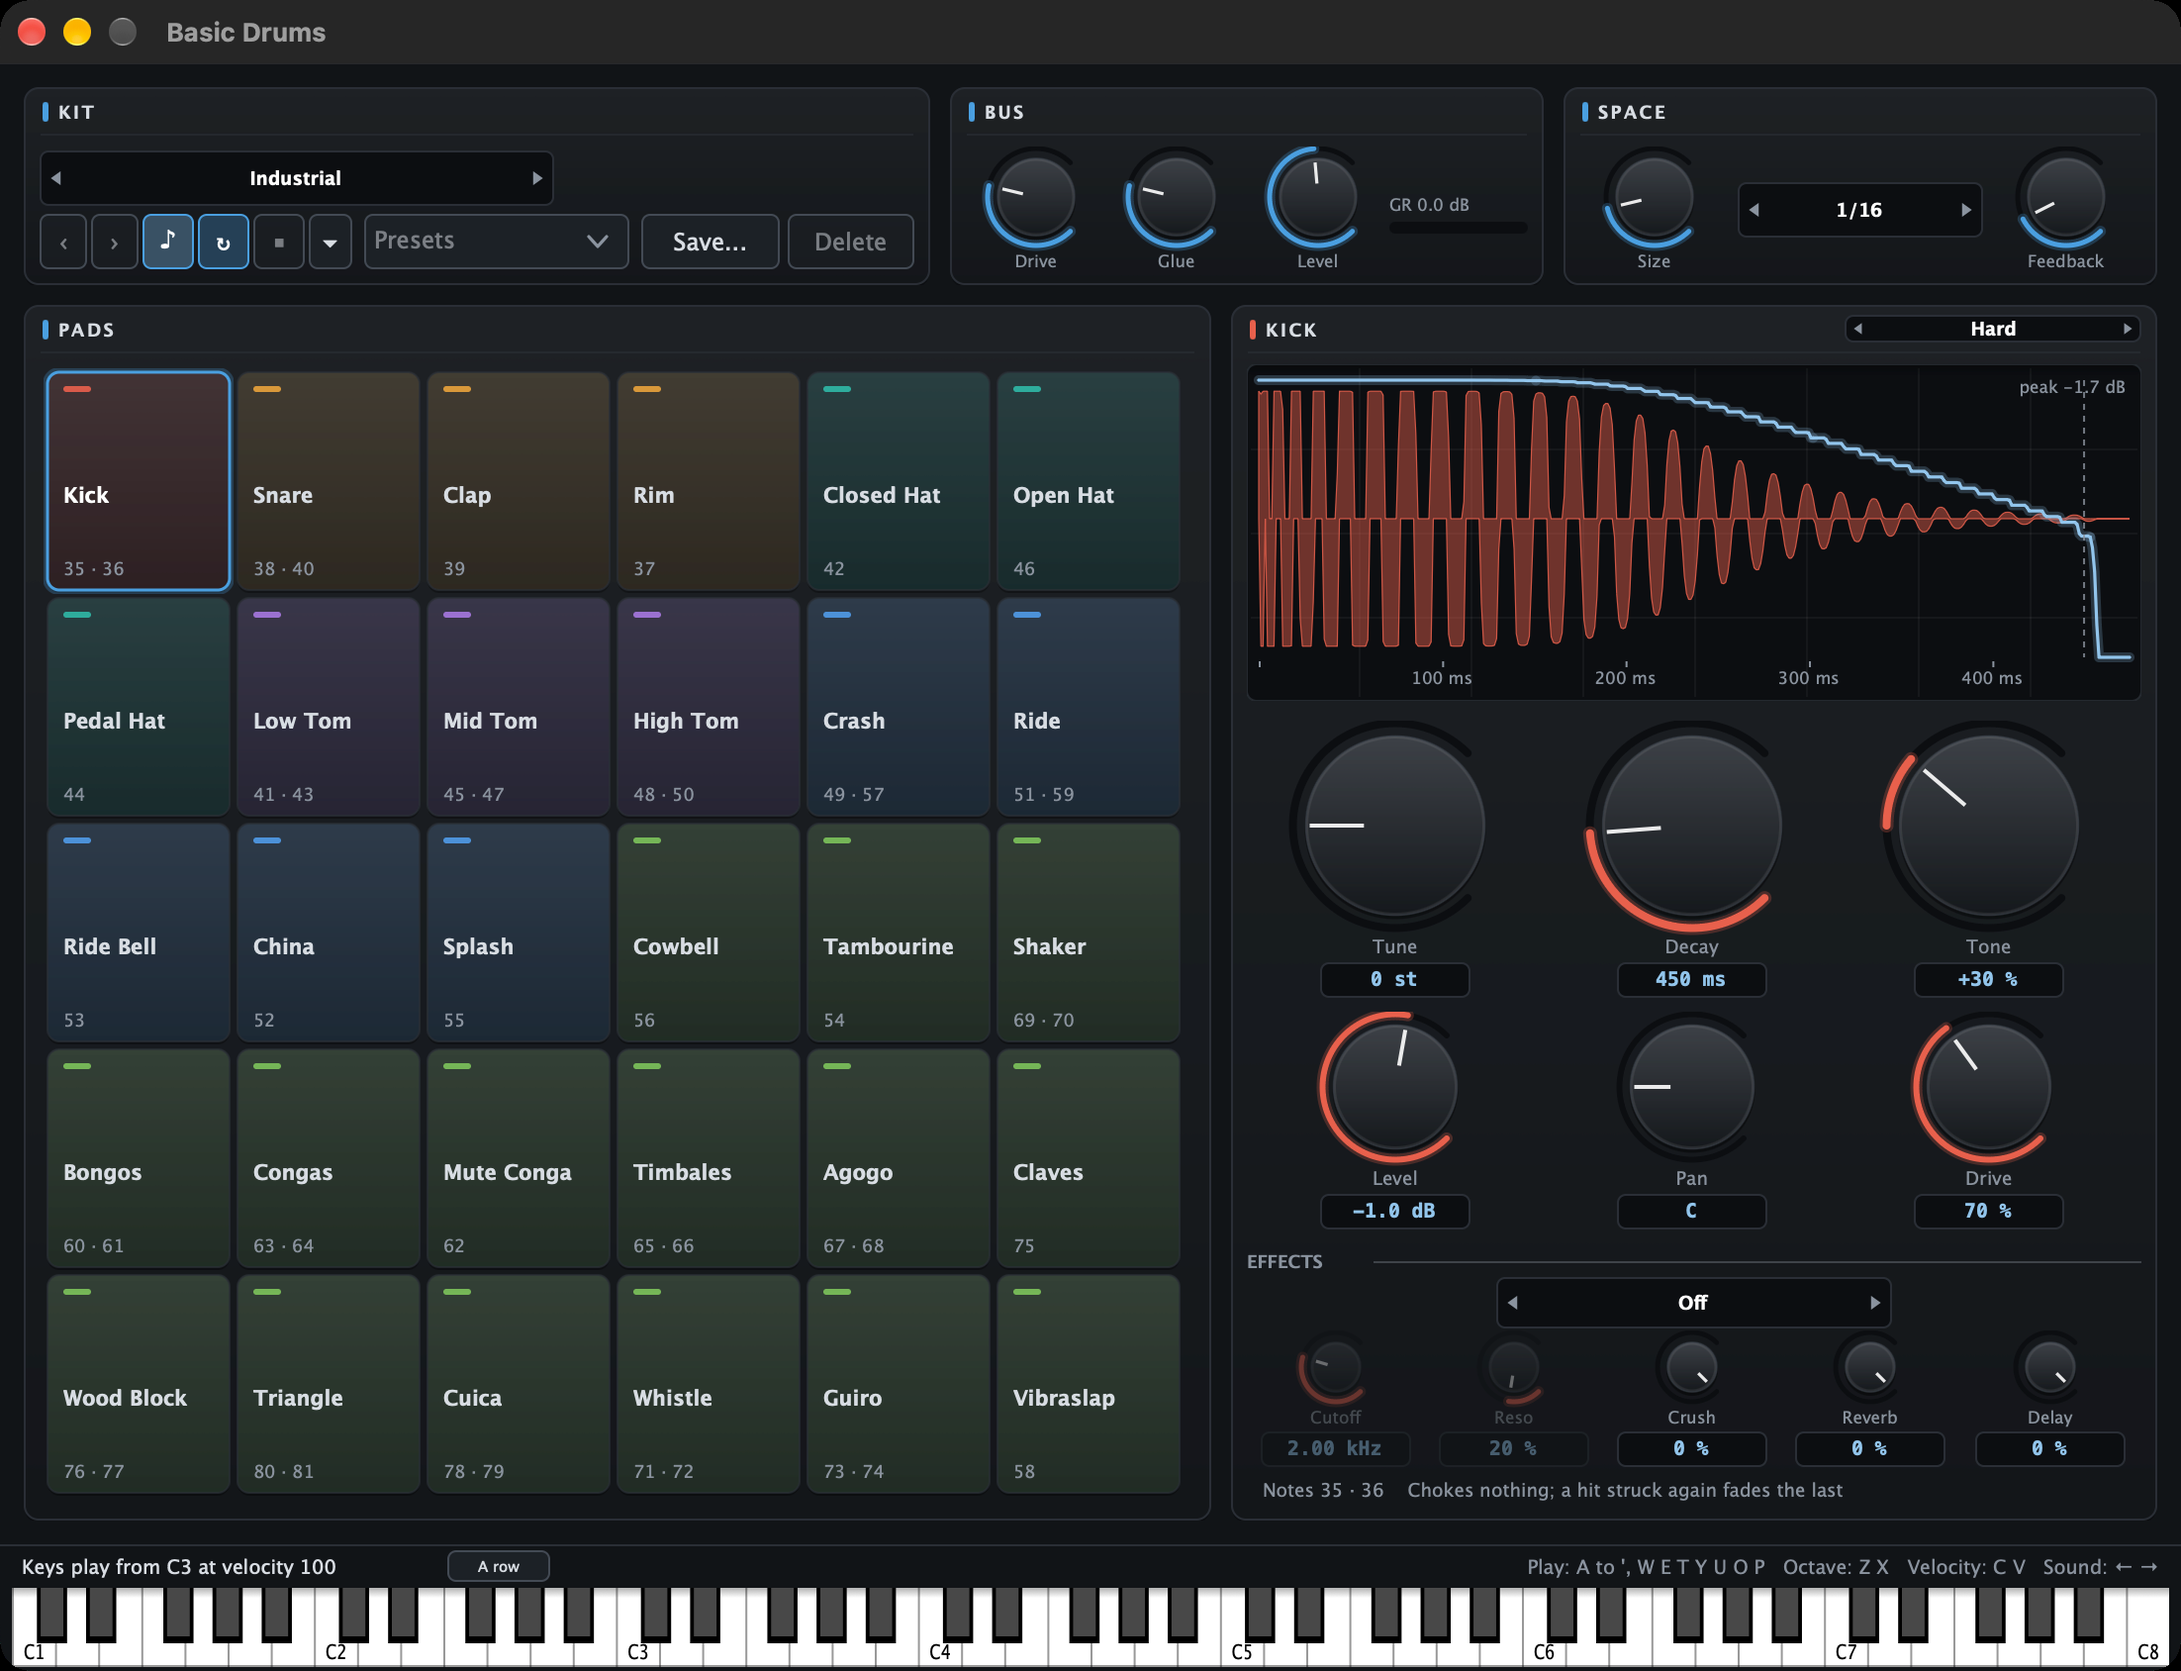
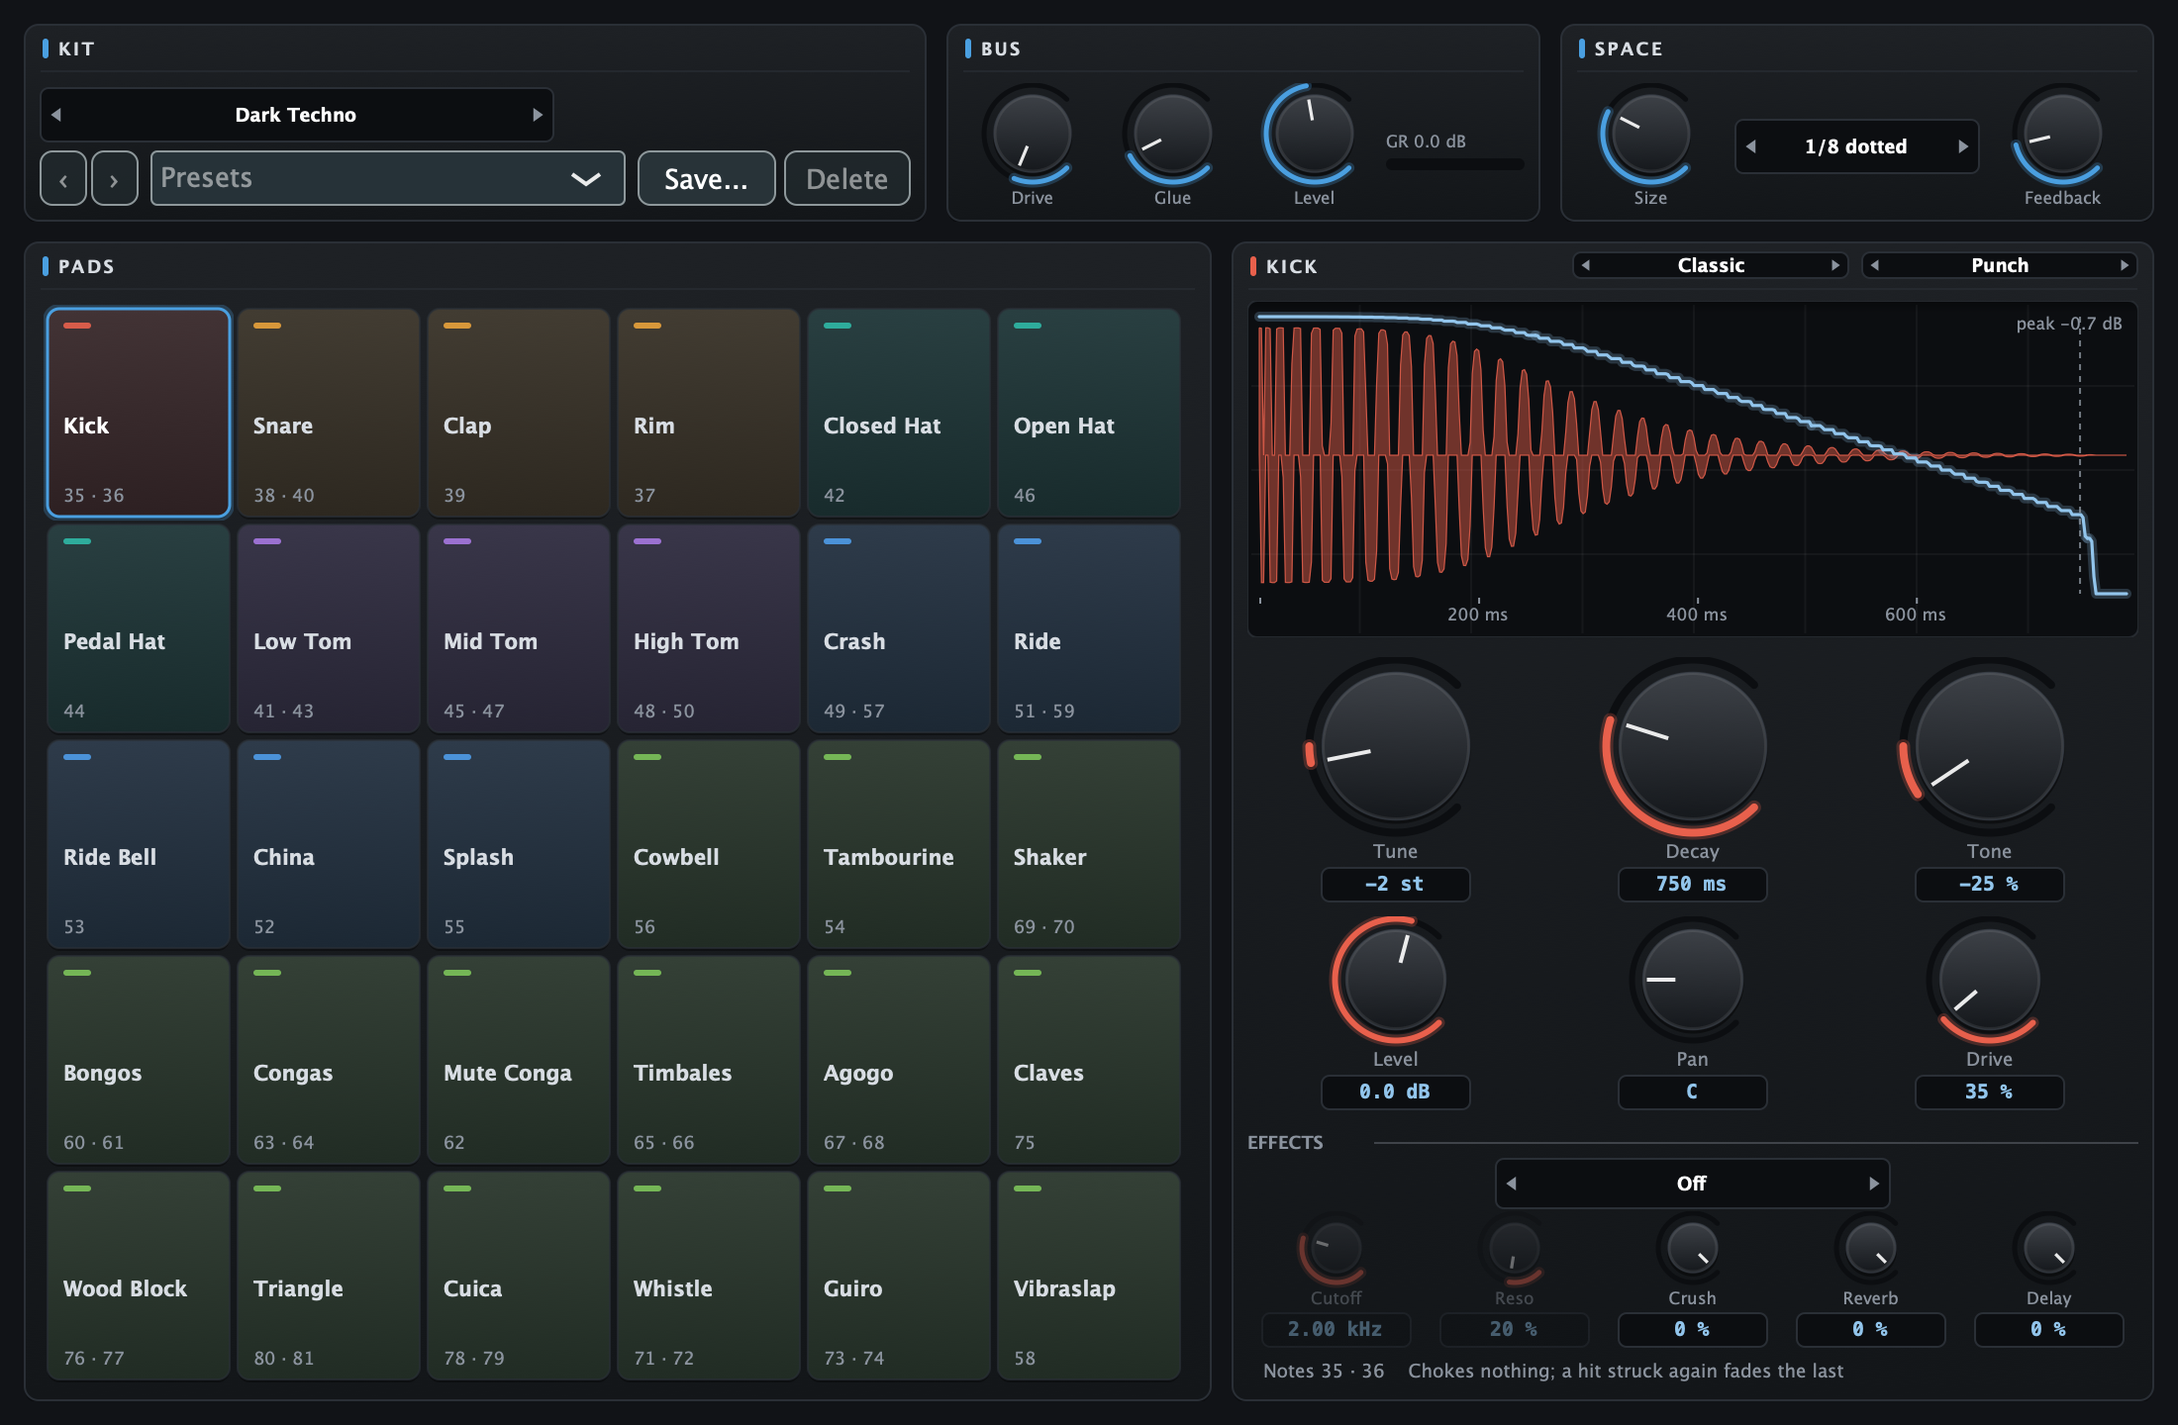
Changelog: release 0.21.0; the Basic Drums picture drawn by the tests

diff --git a/CHANGELOG.md b/CHANGELOG.md
@@ -4,6 +4,18 @@ Each milestone as it was built, newest first, with what the tests measured on th
 
 ## Unreleased
 
+## Released
+
+**Release 0.21.0: the first announced release since 0.19.2**
+- `Torqwave-0.21.0.dmg` on the repository's Releases page, with its SHA-256, and the Windows and Linux packages built by their workflows from the release's tag.
+- **What it is.** Neither 0.20.0 nor 0.20.1 was announced, so 0.21.0 stands for the whole line since 0.19.2: the instruments (0.20.0), Continue where you left off (0.20.1), and what is new in it.
+- **New since 0.20.1** (the entries below): Basic Drums' Modern type, five kits, fourteen grooves and eight audition beats; the Maximizer, Click and Pop Repair and Repair Clipping corrected; Ask Torq remembering the conversation, showing the model's context and answering what is new; and the project's site.
+- Checked on the development Mac (macOS 27): `Scripts/package.sh` built the app universal (arm64 and x86_64) at the release's code, at the tag so the app is marked a release build, signed it ad hoc and made the disk image (the step that failed in the two releases before now gives the image its size). The whole suite (2,618 checks) then passed once in each half of that build, the Intel one under Rosetta, with the signed app as the plug-in scan worker. Not run on an Intel Mac itself. The suites that run on their own were not run again after it: they repeat checks the whole suite makes. The tag is one commit after the code that was built and tested, and that commit changes documents and one picture only.
+- **Windows and Linux:** the workflows build the packages without running the tests, and neither was tried by hand.
+- The Mac app is signed ad hoc, not with a Developer ID, and is not notarized: macOS blocks it the first time, and Open Anyway under System Settings > Privacy & Security lets it through.
+- **Tried by hand before the release:** the new drum kits were heard as rendered clips beside the kits they stand next to; the Modern kick has less weight than the Classic one. Ask Torq's empty box, missing follow-ups and missing release notes were found by the user in the first 0.21.0 build and fixed before this one. The three effects, the Modern sounds in the window, and Ask Torq's arrows and context line were not tried by hand in this build before it was made.
+- The guide's picture of the Basic Drums window is now drawn by the tests (`--drums-window`), so it shows the Type selector; the picture before was a capture of the running window.
+
 **Ask Torq remembers the conversation, empties its box, shows how full the model's context is, and knows what release it is in** (fix log 110 and 111)
 - **What was wrong,** found by the user in the 0.21.0 build before its release. The question stayed in the box after it was sent. A follow-up had nothing to follow: each request went to the model by itself, and the log was emptied for it. And asked "what is new in 0.21.0?", the model said it had no release notes, which was true.
 - **Now the box empties on send** and the log keeps the conversation, one request after another. (The box is emptied by setting its text: `clear()` left its value behind, which could put the text back.)
@@ -71,8 +83,6 @@ Each milestone as it was built, newest first, with what the tests measured on th
 - **What the page says did not do well:** Click and Pop Repair at its defaults left 16 of 60 inserted clicks; Repair Clipping rebuilt all 334 clipped runs of a loop cut off 4 dB over full scale but left it no nearer the original (-34.6 dB from it before, -34.9 dB after); and the Maximizer's output read -0.79 dBTP on Torqwave's meter against a -1 dBTP ceiling. All three are open work.
 - The 0.20.1 comparison snapshot and the announcement's notes now say the Windows and Linux packages are on the release page.
 - Nothing in the app changed. Tested: the whole suite on the development Mac at this code (2,579 checks). A first run, while another build loaded the Mac, failed one control-surface timing check; run again alone, everything passed. The site was previewed with a local Jekyll build before it was pushed, not on GitHub's.
-
-## Released
 
 **Release 0.20.1: continue where you left off, and the first release of the 0.20 line for all three systems**
 - `Torqwave-0.20.1.dmg` on the repository's Releases page, with its SHA-256, the Windows packages (`Torqwave-0.20.1-windows-x64-setup.exe` and `Torqwave-0.20.1-windows-x64.zip`) and the Linux tarball (`Torqwave-0.20.1-linux-x86_64.tar.gz`), each built by its workflow from the release's tag.

diff --git a/docs/guide/07-instruments-and-midi.md b/docs/guide/07-instruments-and-midi.md
@@ -127,7 +127,7 @@ A session saved before 0.20.0 opens with its synth settings (from Basic Synth, a
 
 **Basic Drums** is the built-in drum machine: synthesised drums on the General MIDI drum map (notes 35 to 81), the notes the drum grid writes and most drum plug-ins play. Every one of the 47 notes has a sound, each note rings on its own voice (a tom fill rings over itself), and it plays in stereo.
 
-![The Basic Drums window in the Industrial kit: along the top the kit selector and the presets row with Audition and Loop on, the bus's Drive, Glue and Level, and the space's reverb Size, delay time and Feedback; 30 pads coloured by family on the left; on the right the kick selected, a picture of one hit with its level falling to -60 dB, its Tune, Decay, Tone, Level, Pan and Drive knobs with their values, its effects (the filter, Cutoff, Reso, Crush, Reverb and Delay), and its character, Hard; the playing keys run along the bottom](../screenshots/guide-drums.png)
+![The Basic Drums window in the Dark Techno kit, drawn by the tests: along the top the kit selector and the presets row, the bus's Drive, Glue and Level, and the space's reverb Size, delay time and Feedback; 30 pads coloured by family on the left; on the right the kick selected, with its Type selector reading Classic beside its character, Punch, a picture of one hit with its level falling to -60 dB, its Tune, Decay, Tone, Level, Pan and Drive knobs with their values, and its effects (the filter, Cutoff, Reso, Crush, Reverb and Delay)](../screenshots/guide-drums.png)
 
 - **Pads.** A pad for each of the 30 sounds, coloured by family (kick, snares and claps, hats, toms, cymbals, hand percussion). A pad lights as its sound plays. Click one to hear it and see its settings: nearer the top of the pad plays louder.
 - **The selected sound.** A picture of one hit (its waveform, its level falling to 60 dB down, a dashed line where its decay setting ends, and a line sweeping across as it plays), and six knobs: **Tune** (semitones, two octaves either way), **Decay** (milliseconds until it has fallen 60 dB), **Tone** (darker or brighter: the kick's click, the snare's wires, the hats' filter, a drum's strike), **Level** (dB), **Pan** and **Drive** (saturation on that sound alone). The kick also has a character: **Boom** (long and round), **Punch** (909-style) or **Hard** (an overdriven industrial kick).

diff --git a/docs/announcements/ANNOUNCEMENT-0.21.0.md b/docs/announcements/ANNOUNCEMENT-0.21.0.md
@@ -78,7 +78,7 @@ Something to play on them: 1,032 sequence presets and 116 starter kits in 37 sty
 In the editor: a time-view strip over the ruler, a Hand tool, and Paste Clipboard as New File.
 ```
 
-**7 of 9**, with the home screen and its Continue Where You Left Off button (`docs/screenshots/guide-home.png`).
+**7 of 9**, with no picture yet: the home screen with its Continue Where You Left Off button would suit it (the guide's picture of the home screen is from before the feature).
 
 ```text
 Continue where you left off: quit with files open in the editor and a session in the multitrack view, and the next start brings all of it back. Every file, your place in each, the effects rack, the session, the view you were in.
@@ -86,7 +86,7 @@ Continue where you left off: quit with files open in the editor and a session in
 It keeps a note of what was open, not your audio.
 ```
 
-**8 of 9**, with the site's Quality page (`docs/screenshots/site-quality.png`).
+**8 of 9**, with a picture of the site's Quality page (https://bobclawblaw.github.io/torqwave/quality/), taken once the site shows 0.21.0's results; there is none in the repository yet.
 
 ```text
 We measured our own effects for the site and fixed what fell short. The Maximizer holds its true-peak ceiling. Click Repair finds 60 of 60 test clicks (was 44) and leaves clean drums alone. Repair Clipping rebuilds from the sound round the clip.
@@ -145,7 +145,7 @@ The window of StringSwarm with the preset Tremolo Swarm Wall: twelve strings all
 ```
 
 ```alt
-The window of Basic Drums in its Industrial kit: the kit selector and presets row along the top, thirty pads coloured by family (kicks, snares and claps, hats, toms, cymbals, hand percussion) on the left, and the selected kick's settings on the right.
+The window of Basic Drums in its Dark Techno kit: the kit selector and presets row along the top, thirty pads coloured by family (kicks, snares and claps, hats, toms, cymbals, hand percussion) on the left, and the selected kick's settings on the right, with its Type selector reading Classic.
 ```
 
 For `docs/screenshots/guide-sequencer.png` and `docs/screenshots/editor.png`:
